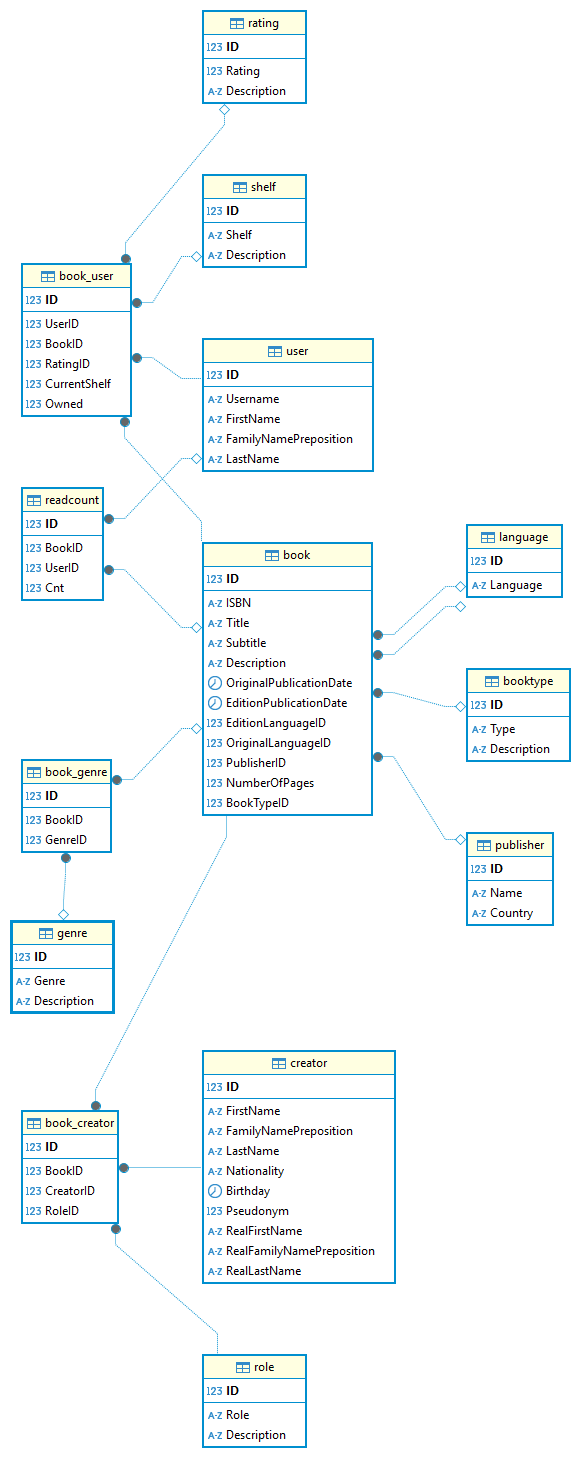
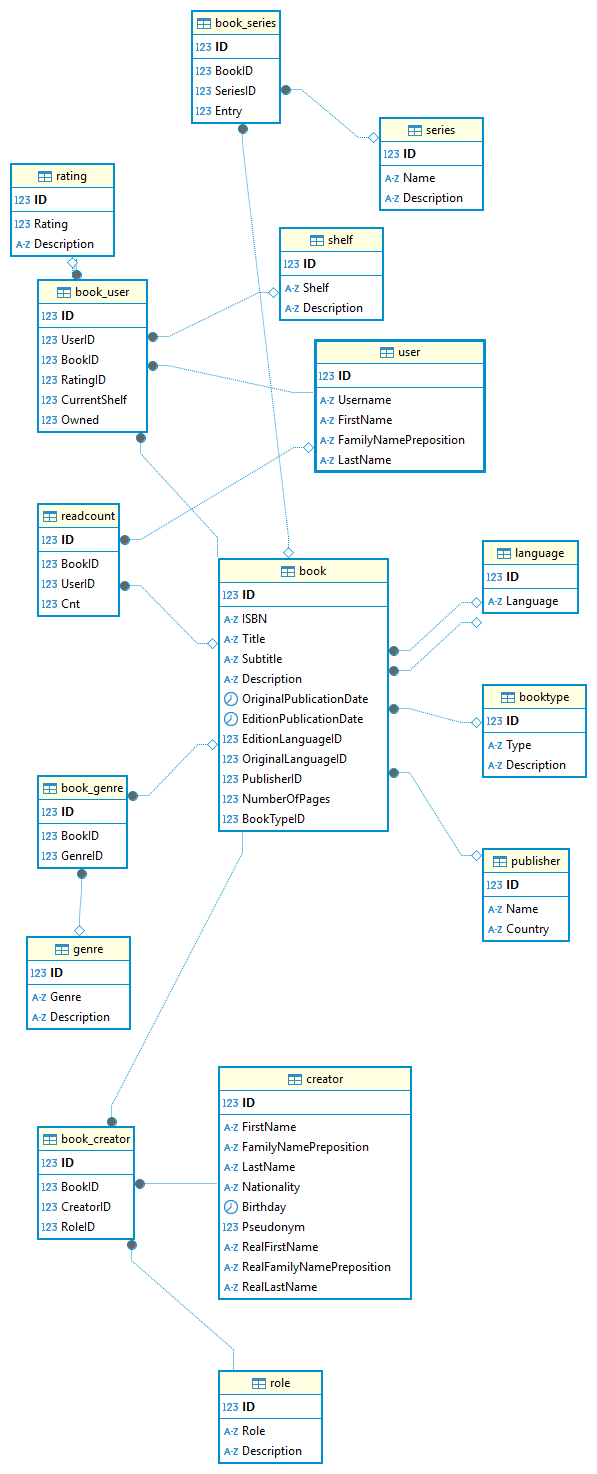
Added series table to database

diff --git a/model.py b/model.py
@@ -16,6 +16,16 @@ Base = declarative_base()
 
 
 # tables without foreign keys
+class Series(Base):
+    """Class for the Series table ferom BookDB"""
+
+    __tablename__ = "Series"
+
+    ID = Column(INTEGER, primary_key=True)
+    Name = Column(VARCHAR)
+    Description = Column(LONGTEXT)
+
+
 class User(Base):
     """Class for the User table from BookDB"""
 
@@ -142,6 +152,16 @@ class Book_Genre(Base):
     ID = Column(INTEGER, primary_key=True)
     BookID = Column(INTEGER, ForeignKey("Book.ID"))
     GenreID = Column(INTEGER, ForeignKey("Genre.ID"))
+
+
+class Book_Series(Base):
+
+    __tablename__ = "Book_Series"
+
+    ID = Column(INTEGER, primary_key=True)
+    BookID = Column(INTEGER, ForeignKey("Book.ID"))
+    SeriesID = Column(INTEGER, ForeignKey("Series.ID"))
+    Entry = Column(INTEGER)
 
 
 # Create the table in the database
